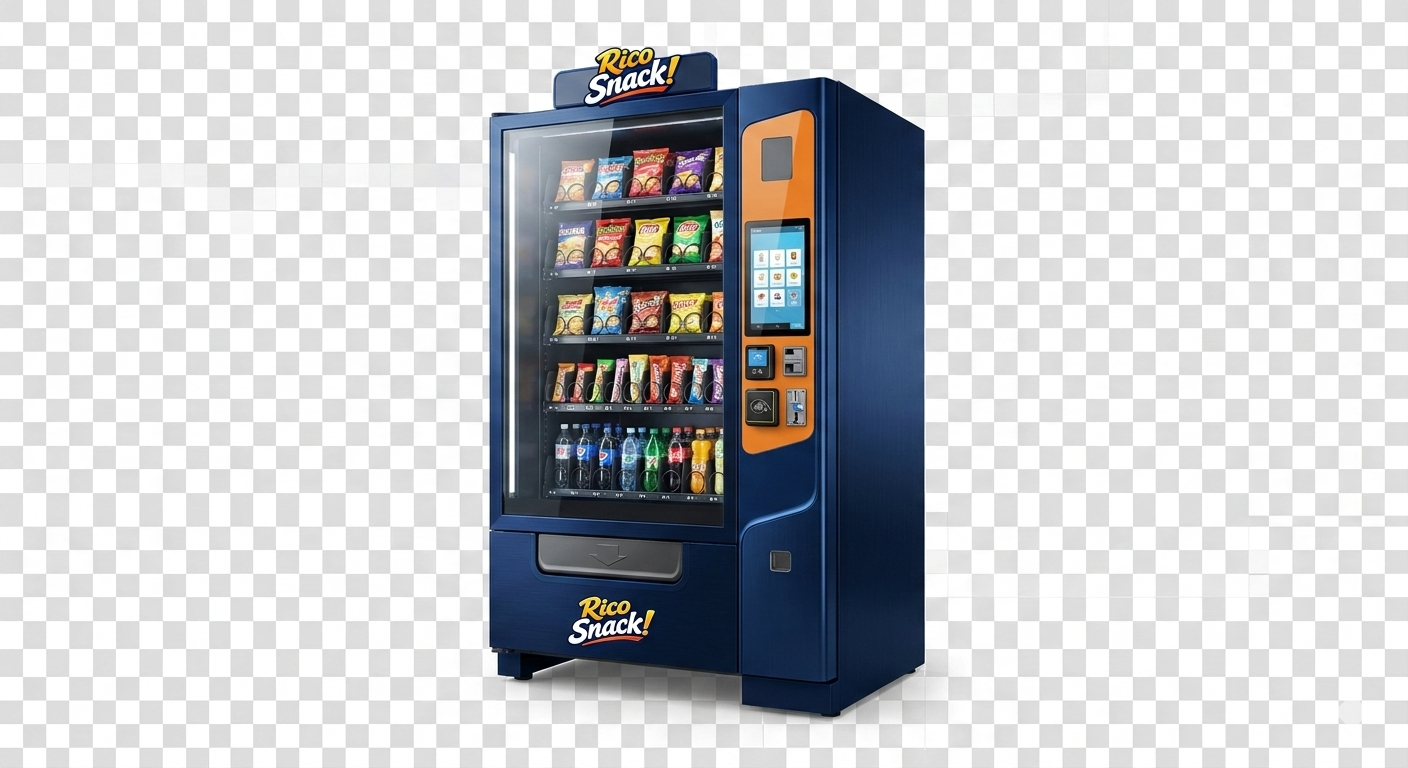
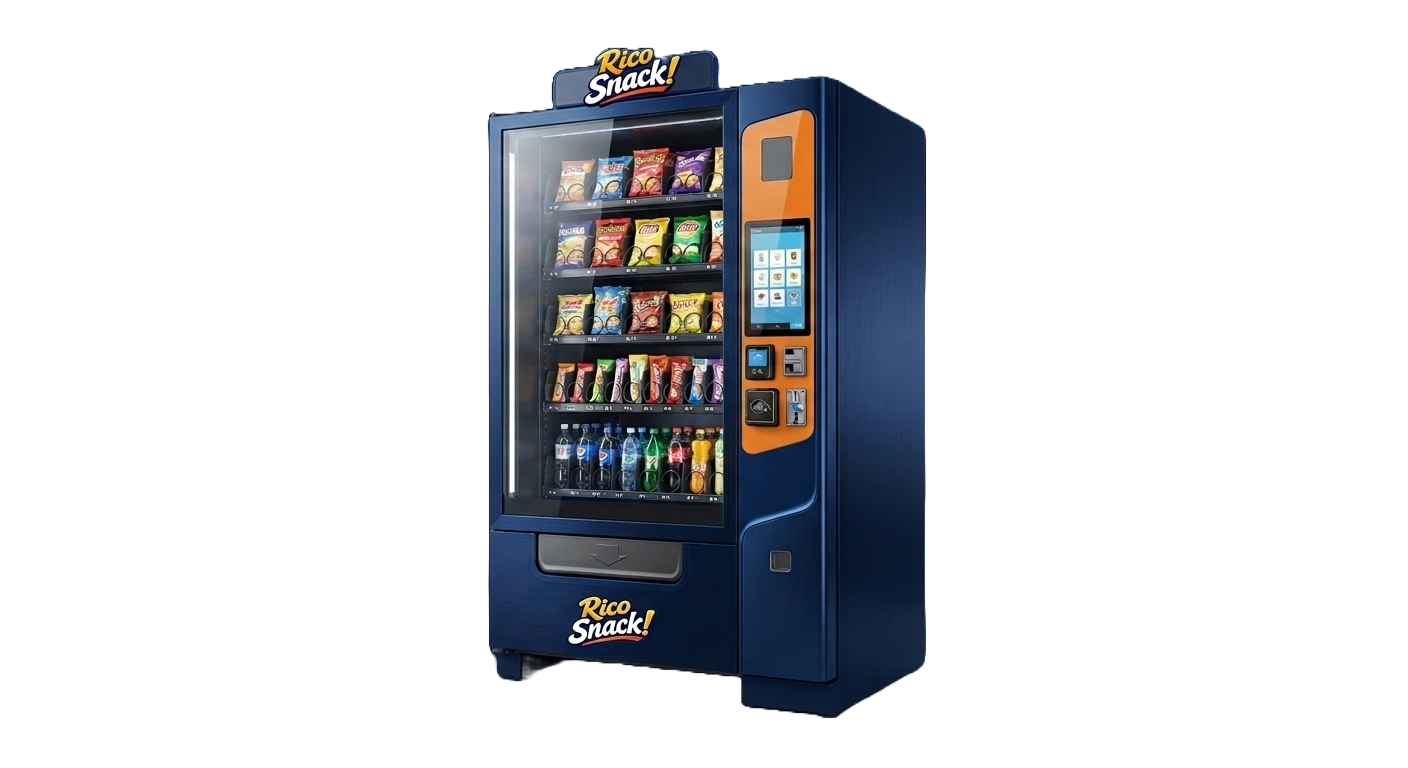
Add files via upload

diff --git a/index.html b/index.html
@@ -3,200 +3,149 @@
 <head>
     <meta charset="UTF-8">
     <meta name="viewport" content="width=device-width, initial-scale=1.0">
-    <title>Rico Snack | Vending Corporativo Premium en Monterrey</title>
+    <title>Rico Snack | Vending Premium</title>
     <link href="https://fonts.googleapis.com/css2?family=Montserrat:wght@700;800&family=Open+Sans:wght@400;600&display=swap" rel="stylesheet">
     <style>
         :root {
-            --logo-blue: #0A1F44;   /* Azul Marino profundo */
-            --logo-orange: #FF8A00; /* Naranja vibrante para acentos */
-            --logo-yellow: #FFD600; /* Amarillo energía para CTAs */
-            --bg-light: #F8F9FA;    /* Fondo claro para secciones secundarias */
+            --logo-blue: #0A1F44;
+            --logo-orange: #FF8A00;
+            --logo-yellow: #FFD600;
             --white: #FFFFFF;
         }
 
         * { margin: 0; padding: 0; box-sizing: border-box; }
-        body { 
-            font-family: 'Open Sans', sans-serif; 
-            background-color: var(--logo-blue); /* Fondo oscuro principal */
-            color: white; 
-            line-height: 1.6; 
-            scroll-behavior: smooth;
-        }
+        body { font-family: 'Open Sans', sans-serif; background-color: var(--white); overflow-x: hidden; }
 
-        /* --- NAVEGACIÓN --- */
+        /* --- NAVEGACIÓN (Solo botón) --- */
         nav {
-            background: var(--white);
-            padding: 15px 8%;
+            padding: 20px 8%;
             display: flex;
-            justify-content: space-between;
-            align-items: center;
-            position: sticky;
-            top: 0;
-            z-index: 1000;
-            box-shadow: 0 4px 20px rgba(10, 31, 68, 0.1);
+            justify-content: flex-end; /* Logo eliminado de aquí */
+            position: absolute;
+            width: 100%;
+            z-index: 100;
         }
-
-        .logo-img { 
-            height: 70px; 
-            width: auto;
-            transition: transform 0.3s ease;
-        }
-        
-        .logo-img:hover { transform: scale(1.05); }
 
         .btn-nav {
             background: var(--logo-orange);
             color: white;
-            padding: 12px 25px;
-            border-radius: 12px;
+            padding: 12px 35px;
+            border-radius: 15px;
             text-decoration: none;
             font-weight: 700;
             font-family: 'Montserrat';
-            box-shadow: 0 4px 0px #C76B00;
-            transition: all 0.2s;
+            box-shadow: 0 4px 15px rgba(255, 138, 0, 0.3);
         }
-
-        .btn-nav:hover { transform: translateY(2px); box-shadow: 0 2px 0px #C76B00; }
 
         /* --- HERO SECTION --- */
         .hero {
-            padding: 100px 8%;
+            background: var(--logo-blue);
+            margin-top: 80px; /* Espacio para que el logo sobresalga hacia arriba */
+            padding: 60px 8% 100px 8%;
             display: flex;
             align-items: center;
-            gap: 60px;
-            min-height: 80vh;
+            position: relative;
+            min-height: 500px;
         }
 
-        .hero-text { flex: 1; }
-        .hero-text h1 { font-family: 'Montserrat'; font-size: 3.8rem; line-height: 1.1; margin-bottom: 25px; }
-        .hero-text span { color: var(--logo-yellow); }
-        .hero-text p { font-size: 1.3rem; opacity: 0.9; margin-bottom: 40px; font-weight: 300; }
+        .hero-content { 
+            flex: 1.2; 
+            z-index: 10; 
+            position: relative;
+        }
 
-        .hero-image { flex: 1; text-align: center; }
-        .hero-image img { 
-            width: 100%; 
-            max-width: 500px; 
+        /* LOGO GRANDE SOBRESALIENDO */
+        .main-logo {
+            width: 350px; /* Tamaño grande */
             height: auto;
-            /* No aplicamos border-radius ni sombra pesada para mantener la transparencia limpia */
-            filter: drop-shadow(0 15px 25px rgba(0,0,0,0.3));
+            position: absolute;
+            top: -140px; /* Lo saca de la franja azul hacia arriba */
+            left: 0;
+            filter: drop-shadow(0 10px 20px rgba(0,0,0,0.2));
         }
 
-        /* --- SERVICIOS (Fondo Claro) --- */
-        .services { padding: 100px 8%; text-align: center; background-color: var(--bg-light); color: var(--logo-blue); }
-        .services h2 { font-family: 'Montserrat'; font-size: 2.5rem; margin-bottom: 50px; }
-        
-        .grid { display: grid; grid-template-columns: repeat(auto-fit, minmax(300px, 1fr)); gap: 30px; }
-        
-        .card {
-            background: white;
-            padding: 45px;
-            border-radius: 30px;
-            border: 1px solid #eee;
-            transition: 0.3s ease;
-            color: var(--logo-blue);
-        }
+        .hero-text-box { margin-top: 100px; } /* Espacio para no chocar con el logo */
 
-        .card:hover { transform: translateY(-10px); border-color: var(--logo-orange); box-shadow: 0 15px 30px rgba(0,0,0,0.05); }
-        .card h3 { color: var(--logo-orange); margin-bottom: 20px; font-family: 'Montserrat'; font-size: 1.5rem; }
-
-        /* --- SECCIÓN LEGAL / CONTACTO (Fondo Gris Medio) --- */
-        .contact-legal {
-            background: #E9ECEF;
-            color: var(--logo-blue);
-            padding: 80px 8%;
-            display: grid;
-            grid-template-columns: 1fr 1fr;
-            gap: 80px;
-            border-radius: 50px 50px 0 0;
-        }
-
-        .info-box h2 { font-family: 'Montserrat'; margin-bottom: 30px; }
-        .info-box p { margin-bottom: 10px; font-size: 1.1rem; }
-        .info-box a { color: var(--logo-blue); text-decoration: none; font-weight: 600; }
-        .info-box a:hover { color: var(--logo-orange); }
-
-        .legal-text { font-size: 0.9rem; color: #666; line-height: 1.8; margin-top: 20px;}
-        .legal-text strong { color: var(--logo-blue); }
-
-        /* --- FOOTER (Fondo Oscuro Profundo) --- */
-        footer { 
-            background: #051024; /* Un azul aún más oscuro para el pie */
+        .hero h1 { 
+            font-family: 'Montserrat'; 
+            font-size: 3.5rem; 
             color: white; 
-            padding: 40px; 
-            text-align: center; 
-            font-size: 0.9rem;
-            letter-spacing: 1px;
+            line-height: 1.1; 
+            margin-bottom: 20px; 
+        }
+        .hero h1 span { color: var(--logo-yellow); }
+        .hero p { color: white; font-size: 1.2rem; opacity: 0.9; margin-bottom: 35px; max-width: 500px; }
+
+        /* MÁQUINA SOBRESALIENDO */
+        .hero-image { 
+            flex: 0.8; 
+            position: relative; 
+            z-index: 20; 
+        }
+        .vending-machine {
+            width: 130%; /* Tamaño mucho más grande */
+            max-width: 650px;
+            position: absolute;
+            top: -100px; /* Sobresale hacia arriba */
+            right: -50px; /* Sobresale hacia la derecha */
+            filter: drop-shadow(0 20px 50px rgba(0,0,0,0.4));
         }
 
-        /* --- RESPONSIVO --- */
-        @media (max-width: 900px) {
-            .hero { flex-direction: column; text-align: center; padding: 60px 5%; }
-            .hero-text h1 { font-size: 2.8rem; }
-            .contact-legal { grid-template-columns: 1fr; gap: 40px; }
+        .btn-main {
+            display: inline-block;
+            background: var(--logo-yellow);
+            color: var(--logo-blue);
+            padding: 18px 30px;
+            border-radius: 15px;
+            text-decoration: none;
+            font-weight: 800;
+            font-family: 'Montserrat';
+            font-size: 1.1rem;
+            transition: 0.3s;
+        }
+
+        /* --- FOOTER DISCRETO --- */
+        .legal-footer {
+            padding: 40px 8%;
+            background: var(--white);
+            color: #666;
+            text-align: center;
+            font-size: 0.8rem;
+        }
+
+        @media (max-width: 1024px) {
+            .hero { flex-direction: column; text-align: center; margin-top: 150px; padding-bottom: 300px; }
+            .main-logo { left: 50%; transform: translateX(-50%); width: 280px; }
+            .vending-machine { position: relative; top: 50px; right: 0; width: 100%; }
+            .hero-text-box { margin-top: 120px; }
         }
     </style>
 </head>
 <body>
 
     <nav>
-        <img src="logo.png" alt="Rico Snack Logo" class="logo-img">
-        <div class="nav-links">
-            <a href="https://wa.me/528114902533?text=Hola%20Rico%20Snack,%20me%20interesa%20una%20cotización%20para%20mi%20empresa." class="btn-nav" target="_blank">Contacto</a>
-        </div>
+        <a href="https://wa.me/528114902533" class="btn-nav" target="_blank">Contacto</a>
     </nav>
 
-    <header class="hero">
-        <div class="hero-text">
-            <h1>El <span>Sabor</span> que tu Empresa Merece</h1>
-            <p>Soluciones de vending premium en Monterrey con tecnología sin contacto y un catálogo curado de snacks que mantienen a tu equipo motivado.</p>
-            <a href="https://wa.me/528114902533?text=Hola%20Rico%20Snack,%20vi%20su%20web%20y%20me%20gustaría%20agendar%20una%20demostración." class="btn-nav" style="background: var(--logo-yellow); color: var(--logo-blue); box-shadow: 0 4px 0px #D4B200;" target="_blank">Agenda una Demostración</a>
+    <section class="hero">
+        <div class="hero-content">
+            <img src="logo.png" alt="Rico Snack Logo" class="main-logo">
+            
+            <div class="hero-text-box">
+                <h1>El <span>Sabor</span> que tu Empresa Merece</h1>
+                <p>Soluciones de vending premium en Monterrey con tecnología sin contacto y un catálogo curado de snacks.</p>
+                <a href="https://wa.me/528114902533" class="btn-main" target="_blank">Agenda una Demostración</a>
+            </div>
         </div>
+
         <div class="hero-image">
-            <img src="vending.png" alt="Máquina Vending Rico Snack">
-        </div>
-    </header>
-
-    <section class="services">
-        <h2>Beneficios Corporativos</h2>
-        <div class="grid">
-            <div class="card">
-                <h3>Instalación Gratuita</h3>
-                <p>Llevamos el equipo a tu empresa sin costos operativos iniciales. Nosotros nos encargamos del montaje.</p>
-            </div>
-            <div class="card">
-                <h3>Monitoreo 24/7</h3>
-                <p>Nuestras máquinas inteligentes nos avisan cuando falta producto para que nunca te quedes sin tu snack favorito.</p>
-            </div>
-            <div class="card">
-                <h3>Pago con Tarjeta</h3>
-                <p>Olvídate del efectivo. Aceptamos pagos con tarjeta de crédito, débito y dispositivos móviles.</p>
-            </div>
+            <img src="vending.png" alt="Máquina Vending Rico Snack" class="vending-machine">
         </div>
     </section>
 
-    <section class="contact-legal" id="contacto">
-        <div class="info-box">
-            <h2>Hablemos de negocios</h2>
-            <p><strong>Ubicación:</strong> Monterrey, Nuevo León, México</p>
-            <p><strong>WhatsApp:</strong> <a href="https://wa.me/528114902533" target="_blank">+52 81 1490 2533</a></p>
-            <p><strong>Email:</strong> <a href="mailto:ricosnack247@gmail.com">ricosnack247@gmail.com</a></p>
-        </div>
-        <div class="info-box">
-            <h3 style="font-family: 'Montserrat'; margin-bottom: 10px;">Privacidad y Cumplimiento</h3>
-            <p class="legal-text">
-                Este sitio web es propiedad de <strong>Rico Snack</strong>. Toda la información proporcionada a través de este canal es gestionada de forma confidencial. 
-            </p>
-            <p style="font-size: 0.8rem; color: #888; margin-top: 15px; font-weight: 300; border-top: 1px solid #ddd; padding-top: 10px;">
-                Responsable Legal: [TU NOMBRE COMPLETO]
-            </p>
-        </div>
-    </section>
-
-    <footer>
+    <footer class="legal-footer">
         <p>&copy; 2026 RICO SNACK - VENDING SOLUTIONS</p>
-        <p style="margin-top: 10px; opacity: 0.6; font-size: 0.8rem;">
-            Marca comercial operada legalmente por: [TU NOMBRE COMPLETO]
-        </p>
+        <p style="margin-top:10px; opacity:0.6;">Operado legalmente por: [TU NOMBRE COMPLETO]</p>
     </footer>
 
 </body>
